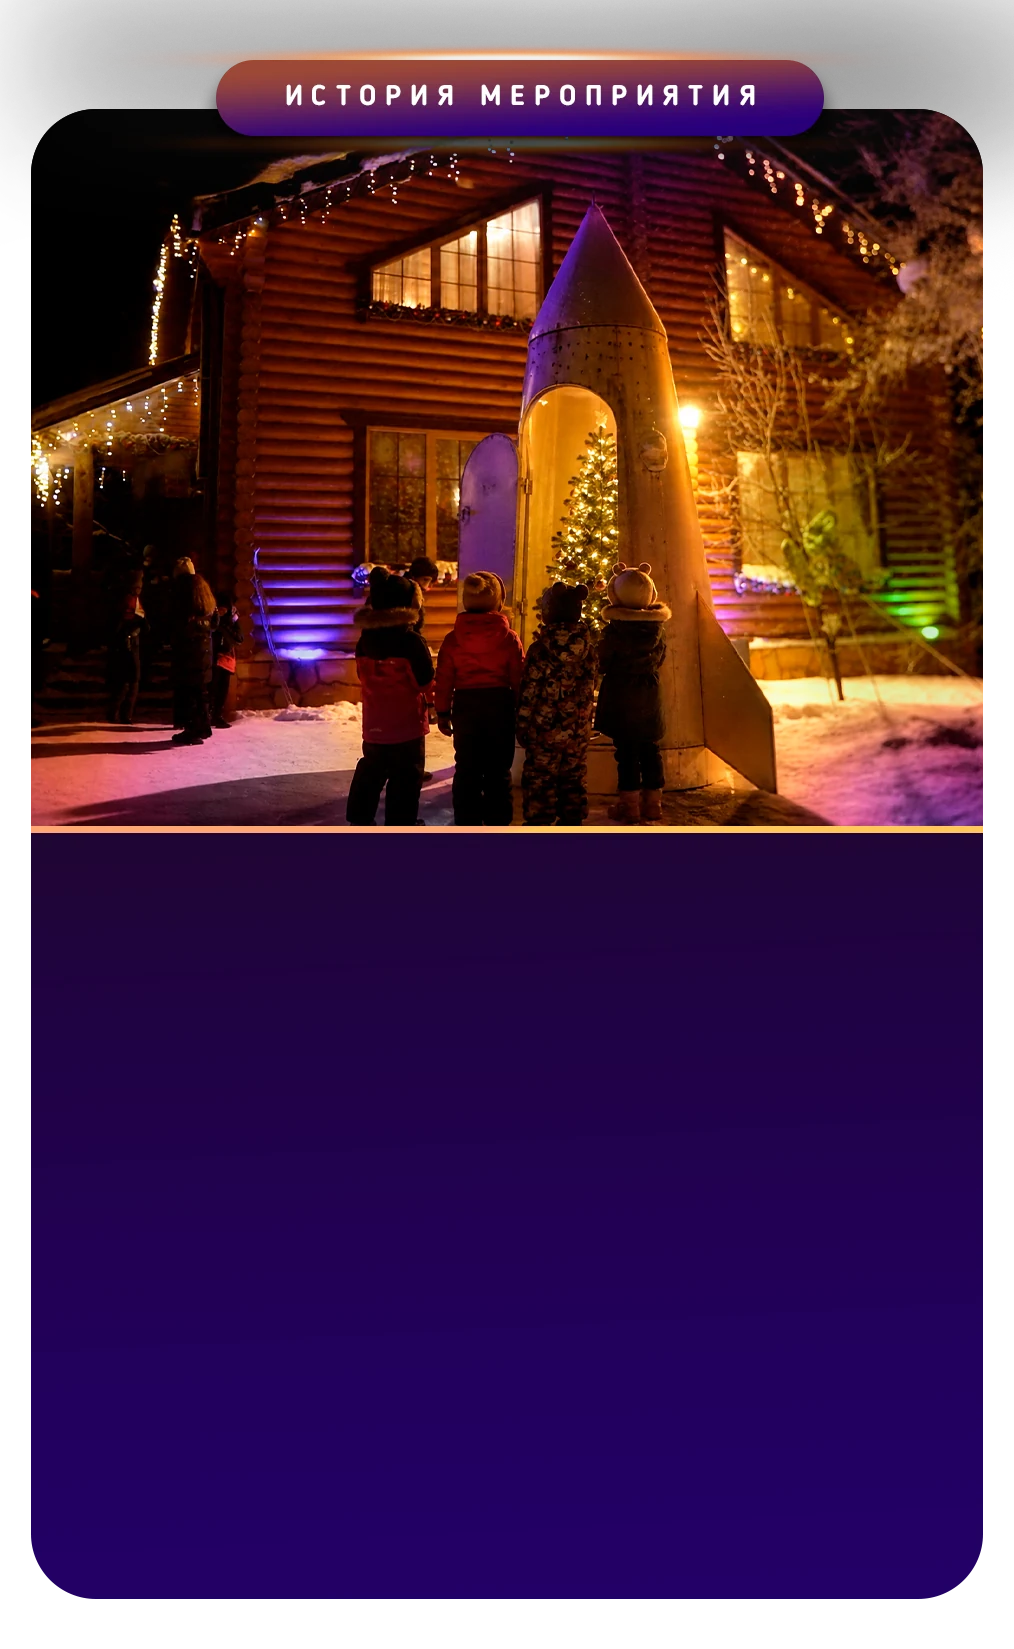
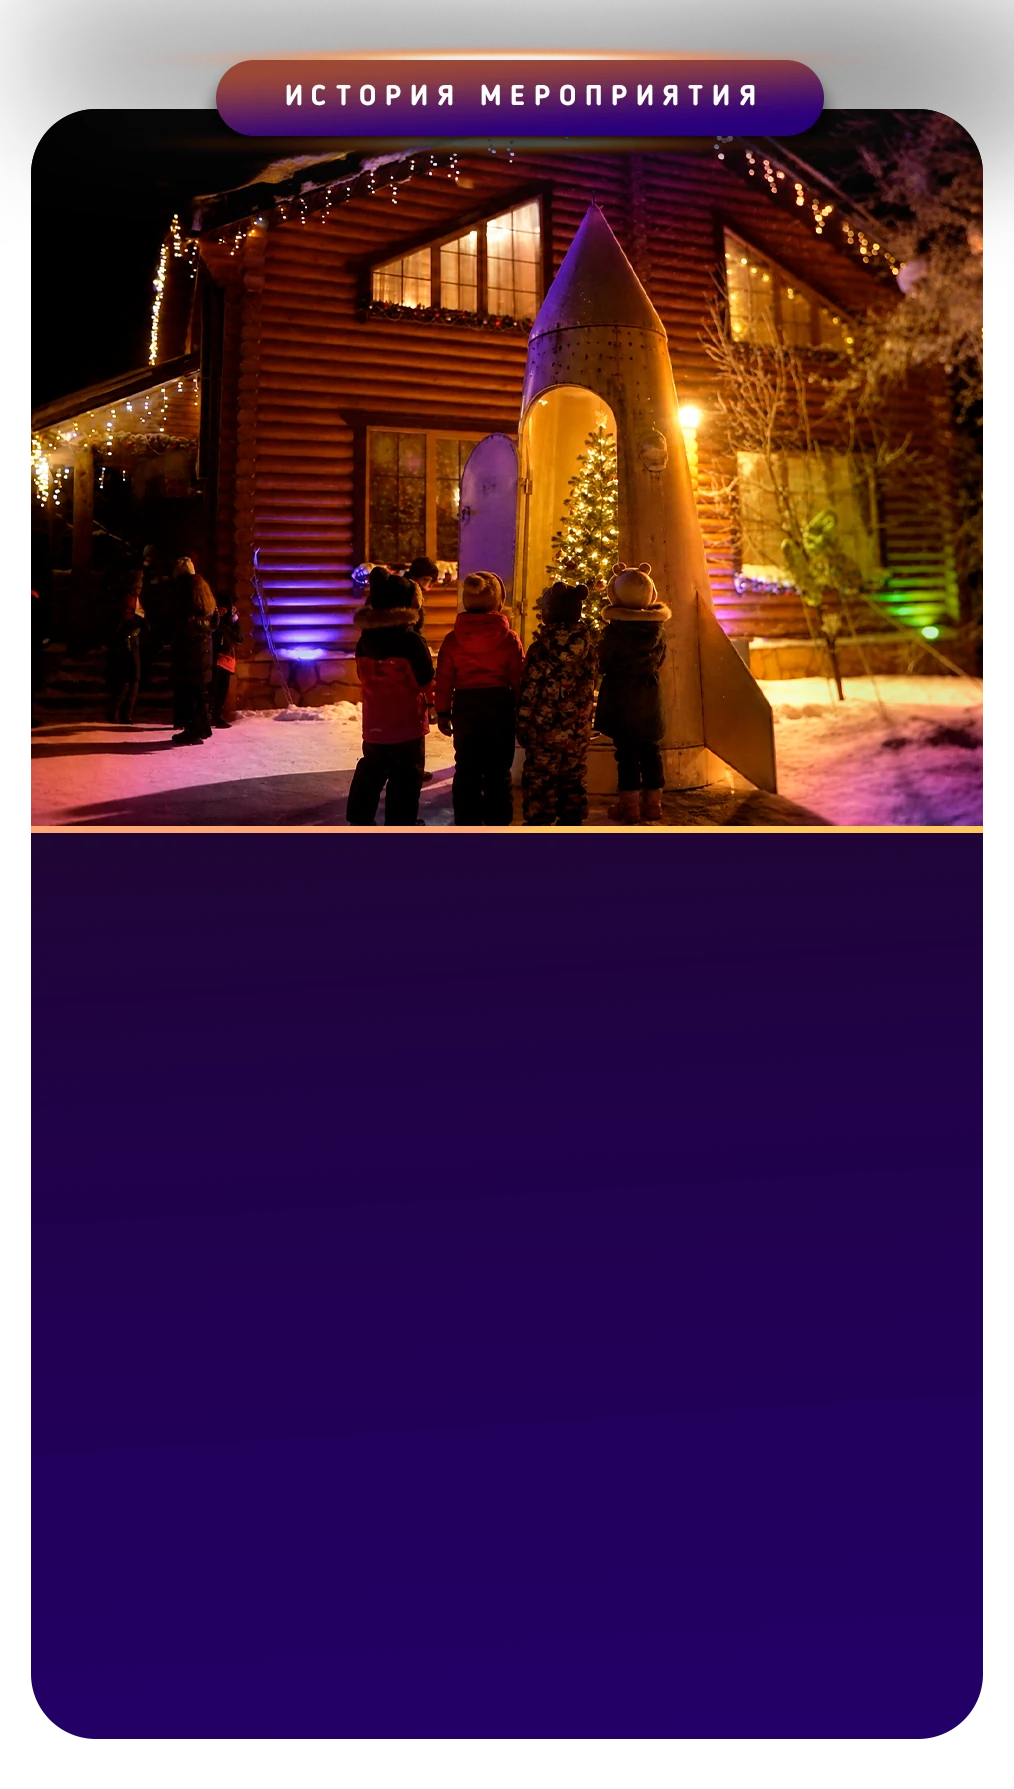
Экран истории: карточка на компьютере мельче, на телефоне крупнее текст
Компьютер: ширина карточки 0,85 от прежней — высота экрана на 1920 упала
с 930 до 818 px. Ширина вынесена в одно число --im-w, множитель считается
через него, поэтому текст с картинкой не разъезжаются.

Телефон: блок на 5 % больше, заголовок на 15 % крупнее (23,9 px на 390),
абзац с 33,9 до 39,5 холста — 15 px вместо 12,2. Под выросшие строки
надставлена сама картинка: ровная середина лиловой панели растянута
на 140 px холста, верх с плашкой и фото и низ со скруглениями не тронуты.

Changed region(s): [[0.0306, 0.0, 0.9783, 0.5258], [0.9172, 0.9588, 0.9477, 0.9897], [0.0611, 0.9588, 0.0917, 0.9897]]

diff --git a/v2.html b/v2.html
@@ -3160,11 +3160,20 @@ html.zs-lock .nav{margin-right:var(--zs-sbw,0px)}
    Золото «СОБИРАЕМ» и последнего абзаца — #FFBB57, снято пипеткой с макета
    и со старого сайта (там он же). */
 .im{
+  /* ШИРИНА КАРТОЧКИ — одно число на весь экран. 12.09.2026 Серёга попросил
+     «блок с текстом и фото на 15 % меньше, чтобы экран стал ниже»: прежние
+     min(94vw,1462px) умножены на 0,85. Через неё же считается и множитель,
+     поэтому текст с картинкой не разъедутся: меняешь одну строку — едет всё.
+     Высота экрана падает следом сама, отдельно её не трогаем. */
+  --im-w: min(79.9vw, 1242.7px);
   /* один пиксель компьютерного макета: картинка ровно такой ширины */
-  --im-v: calc(min(94vw, 1462px) / 1770);
-  /* один пиксель мобильного макета: 1080 холста = вся ширина телефона.
-     Потолок 980 px — как у экрана комнаты, чтобы на планшете не раздувало */
-  --im-m: calc(min(100vw, 980px) / 1080);
+  --im-v: calc(var(--im-w) / 1770);
+  /* Один пиксель мобильного макета: 1080 холста = вся ширина телефона.
+     12.09.2026 Серёга попросил «сам блок пропорционально на 5 % больше» —
+     поэтому не 100vw, а 105vw (и потолок 980 → 1029, те же 5 %).
+     Прозрачные поля у картинки по 31 px холста, так что даже при 105vw
+     видимая карточка занимает 92,6 % ширины экрана, а не упирается в края. */
+  --im-m: calc(min(105vw, 1029px) / 1080);
   position:relative; z-index:25; isolation:isolate; overflow:hidden;
   /* воздух сверху чуть больше, чем снизу: у картинки снизу свой запас —
      золотая подсветка и тень уходят за нижнюю кромку файла */
@@ -3241,7 +3250,7 @@ html.zs-lock .nav{margin-right:var(--zs-sbw,0px)}
 .im-sky{position:absolute; inset:0; z-index:1; display:block; width:100%; height:100%; pointer-events:none}
 
 /* ---------- карточка ---------- */
-.im-wrap{position:relative; z-index:2; width:min(94vw,1462px); margin:0 auto}
+.im-wrap{position:relative; z-index:2; width:var(--im-w); margin:0 auto}
 .im-card{position:relative; display:block; width:100%; aspect-ratio:1770/908}
 /* Подсветка под курсором (просьба Серёги): лиловый ореол вокруг карточки,
    тёплый — под её золотой кромкой снизу, и сама картинка чуть ярче.
@@ -3327,20 +3336,30 @@ html.zs-lock .nav{margin-right:var(--zs-sbw,0px)}
   .im-wrap{width:100%}
   /* картинка 1014 px холста из 1080, поля по 33 — центруем её саму */
   .im-card{width:calc(1014 * var(--im-m)); margin:calc(18.5 * var(--im-m)) auto 0;
-    aspect-ratio:1014/1649}
-  .im-pic{aspect-ratio:1014/1649}
+    aspect-ratio:1014/1789}
+  /* высота файла 1789, а не 1649: панель надставлена на 140 px холста
+     под более крупный текст (12.09.2026) */
+  .im-pic{aspect-ratio:1014/1789}
   .im-card::before{inset:calc(-40 * var(--im-m))}
   .im-card::after{bottom:calc(-30 * var(--im-m)); height:calc(130 * var(--im-m))}
+  /* заголовок на 15 % крупнее макета (12.09.2026, просьба Серёги
+     «немного больше»); вместе с ростом блока на 5 % это 23,9 px на телефоне
+     390 против прежних 19,9 */
   .im-t{
     position:static; left:auto; top:auto; text-align:center;
-    font-size:calc(55 * var(--im-m)); line-height:calc(67 * var(--im-m));
+    font-size:calc(63 * var(--im-m)); line-height:calc(77 * var(--im-m));
   }
+  /* Кегль абзацев поднят с 33,9 до 39,5 холста (12.09.2026: «текст слишком
+     мелкий»). Вместе с ростом блока это 15 px на телефоне 390 вместо 12,2 —
+     вровень с остальными экранами страницы. Колонка осталась 890 холста
+     (шире панель не пускает), поэтому строк стало больше, и под них
+     ПЕРЕРИСОВАНА сама картинка: лиловая панель надставлена по высоте. */
   .im-body{
     left:calc(91 * var(--im-m)); top:calc(911.7 * var(--im-m));
     width:calc(890 * var(--im-m));
-    font-size:calc(33.9 * var(--im-m)); line-height:calc(45.5 * var(--im-m));
+    font-size:calc(39.5 * var(--im-m)); line-height:calc(53 * var(--im-m));
   }
-  .im-body p + p{margin-top:calc(45.5 * var(--im-m))}
+  .im-body p + p{margin-top:calc(53 * var(--im-m))}
   .im-brd{display:none}
   /* первая фраза отдельной жирной строкой */
   .im-lead{
@@ -7828,10 +7847,10 @@ html.zs-lock .nav{margin-right:var(--zs-sbw,0px)}
       <picture>
         <source media="(max-width:1023px)"
                 srcset="v2-im-mob-760.webp 760w, v2-im-mob.webp 1014w"
-                sizes="(min-width:980px) 920px, 93.9vw">
+                sizes="(min-width:980px) 966px, 98.6vw">
         <img class="im-pic" src="v2-im-card.webp"
              srcset="v2-im-card-1100.webp 1100w, v2-im-card.webp 1770w"
-             sizes="(min-width:1556px) 1462px, 94vw"
+             sizes="(min-width:1556px) 1243px, 79.9vw"
              width="1770" height="908" loading="lazy" decoding="async" draggable="false"
              alt="Новогодняя изба «Звёздной смены»: ракета у крыльца, гирлянды на брёвнах, дети смотрят на неё">
       </picture>
